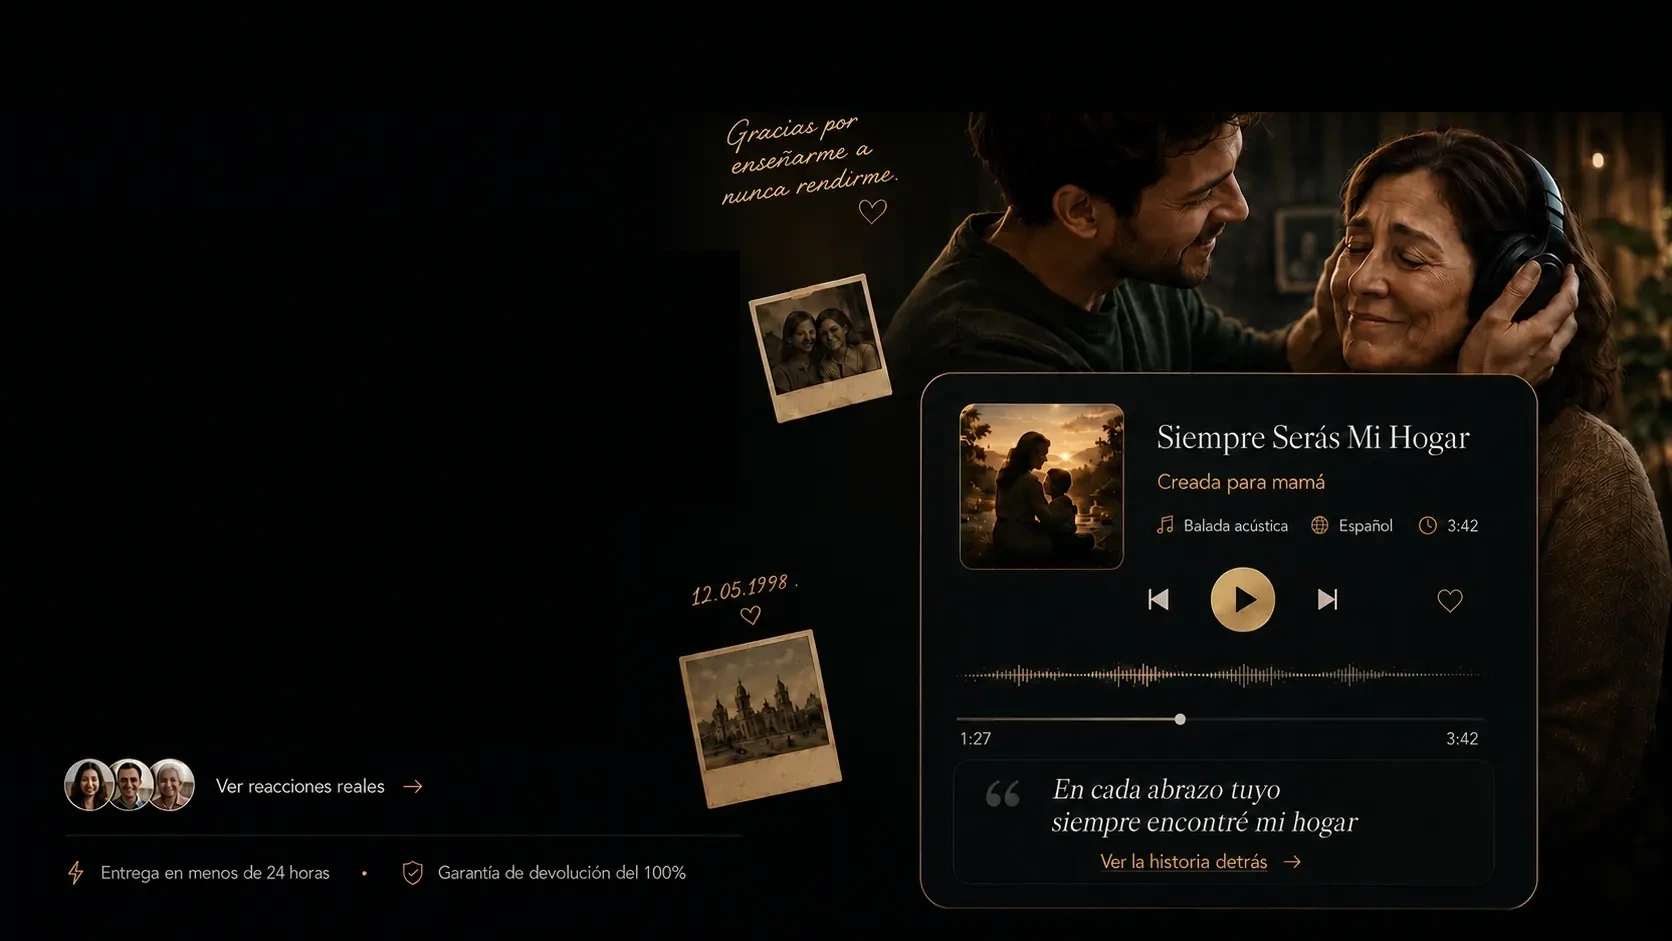
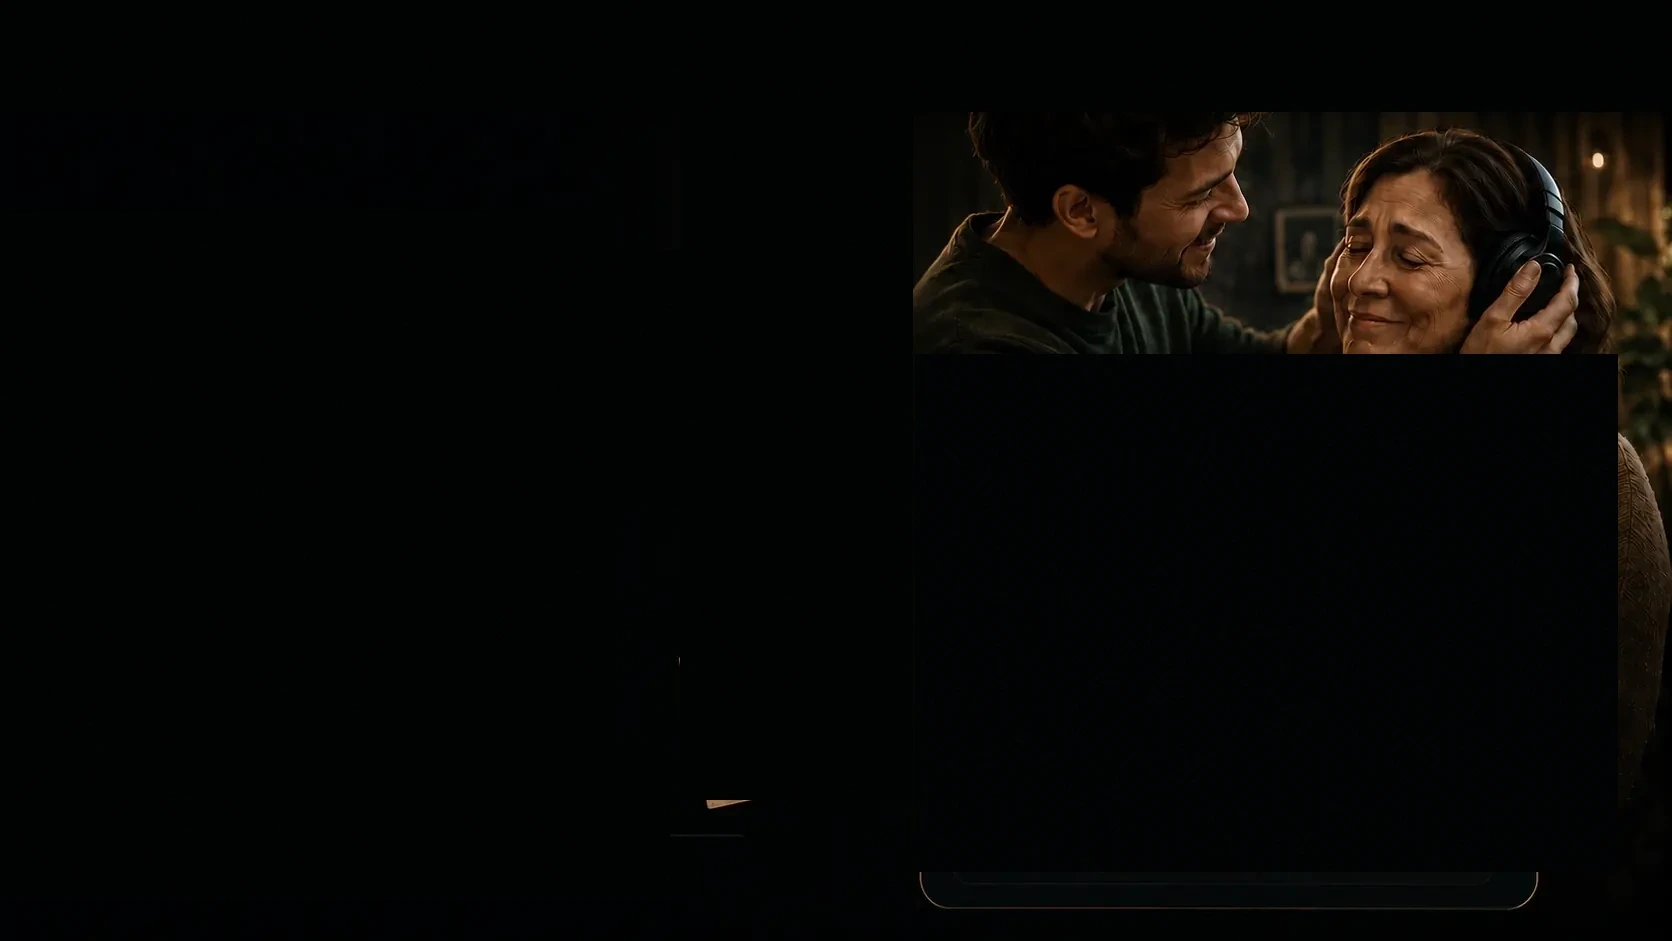
Revelar la tarjeta del reproductor completa como HTML/CSS real
- Panel, thumbnail, título, dedicatoria, metadatos (con iconos), tiempos,
  barra de progreso, waveform, controles (prev/play/next/favorito) y cita
  ahora son HTML/CSS reales en vez de píxeles horneados.
- player-thumbnail.jpg y player-waveform.png extraídos de la imagen
  original; el resto (panel, botones, íconos, barra de progreso) recreado
  con CSS/SVG reutilizando los tokens de color del sitio.
- Fix: date-copy tenía un texto "fantasma" al rotarlo vía transform en
  este navegador cuando el texto vivía como nodo de texto directo en el
  <p>; envolverlo en <span> (mismo patrón que note-copy) lo resuelve.
- Fix: polaroid-church.png estaba recortada muy justa y le faltaba la
  punta de la esquina rotada; re-extraída con los límites reales.
- Verificado contra el diseño original: visualmente indistinguible.

diff --git a/index.html b/index.html
@@ -1533,10 +1533,12 @@
     pointer-events:none;
   }
   .hero-exact .polaroid-photo.faces { left:43.84%; top:27.95%; width:14.41%; height:19.23%; }
-  .hero-exact .polaroid-photo.church { left:40.01%; top:64.08%; width:15.73%; height:20.51%; }
+  .hero-exact .polaroid-photo.church { left:40.01%; top:63.44%; width:16.33%; height:24.97%; }
 
   .hero-exact .note-copy {
     transform:rotate(-8deg);
+    will-change:transform;
+    backface-visibility:hidden;
   }
   .hero-exact .note-copy .text-line {
     color:var(--gold-bright) !important;
@@ -1544,10 +1546,14 @@
     text-shadow:none !important;
   }
   .hero-exact .date-copy {
+    transform:rotate(-5deg);
+    will-change:transform;
+    backface-visibility:hidden;
+  }
+  .hero-exact .date-copy span {
     color:var(--gold-bright) !important;
     -webkit-text-fill-color:var(--gold-bright) !important;
     text-shadow:none !important;
-    transform:rotate(-5deg);
   }
   .hero-exact .heart-deco {
     position:absolute;
@@ -1557,6 +1563,148 @@
   }
   .hero-exact .heart-deco.note-heart { left:51.26%; top:21.15%; width:1.914%; height:3.294%; transform:rotate(-8deg); }
   .hero-exact .heart-deco.date-heart { left:44.32%; top:64.72%; width:1.017%; height:1.700%; transform:rotate(-5deg); }
+
+  /* ---- Player card ---- */
+  .hero-exact .player-card-panel {
+    position:absolute;
+    z-index:2;
+    left:54.90%;
+    top:37.83%;
+    width:41.87%;
+    height:54.84%;
+    background:rgba(9,9,10,.62);
+    border:1px solid var(--line-soft);
+    border-radius:1.4cqw;
+    pointer-events:none;
+  }
+  .hero-exact .player-thumbnail {
+    position:absolute;
+    z-index:3;
+    left:55.14%;
+    top:38.79%;
+    width:11.96%;
+    height:14.56%;
+    border-radius:.8cqw;
+    object-fit:cover;
+    display:block;
+    pointer-events:none;
+  }
+  .hero-exact .song-title-copy {
+    color:var(--cream) !important;
+    -webkit-text-fill-color:var(--cream) !important;
+    text-shadow:none !important;
+  }
+  .hero-exact .song-dedication-copy {
+    color:var(--gold-bright) !important;
+    -webkit-text-fill-color:var(--gold-bright) !important;
+    text-shadow:none !important;
+  }
+  .hero-exact .song-meta-copy {
+    display:flex !important;
+    align-items:center;
+    gap:.5cqw;
+    color:var(--cream) !important;
+    -webkit-text-fill-color:var(--cream) !important;
+    text-shadow:none !important;
+    opacity:.85;
+  }
+  .hero-exact .song-meta-copy svg {
+    flex:none;
+    width:.95cqw;
+    height:.95cqw;
+    color:var(--gold) !important;
+    -webkit-text-fill-color:var(--gold) !important;
+  }
+  .hero-exact .song-meta-copy span {
+    color:var(--cream) !important;
+    -webkit-text-fill-color:var(--cream) !important;
+    text-shadow:none !important;
+  }
+  .hero-exact .song-meta-copy .meta-sep { opacity:.6; }
+  .hero-exact .quote-mark {
+    color:var(--gold) !important;
+    -webkit-text-fill-color:var(--gold) !important;
+  }
+  .hero-exact .song-time-left,
+  .hero-exact .song-time-right {
+    color:var(--cream) !important;
+    -webkit-text-fill-color:var(--cream) !important;
+    text-shadow:none !important;
+    opacity:.75;
+  }
+  .hero-exact .song-quote-copy .text-line {
+    color:var(--cream) !important;
+    -webkit-text-fill-color:var(--cream) !important;
+    text-shadow:none !important;
+  }
+  .hero-exact .quote-mark {
+    position:absolute;
+    z-index:3;
+    left:56.82%;
+    top:80.5%;
+    width:1.6%;
+    height:3.6%;
+    color:var(--gold);
+    opacity:.8;
+    pointer-events:none;
+  }
+  .hero-exact .story-hit {
+    color:var(--gold);
+    font-family:'Inter',sans-serif;
+    justify-content:flex-start;
+  }
+
+  .hero-exact .progress-track {
+    position:absolute;
+    z-index:2;
+    left:54.60%;
+    top:76.0%;
+    width:42.22%;
+    height:2px;
+    background:var(--line-soft);
+    pointer-events:none;
+  }
+  .hero-exact .progress-track .filled {
+    position:absolute;
+    left:0; top:0; bottom:0;
+    width:37.8%;
+    background:var(--gold);
+  }
+  .hero-exact .progress-dot {
+    position:absolute;
+    z-index:3;
+    left:70.57%;
+    top:76.51%;
+    width:.9%;
+    height:1.6%;
+    border-radius:50%;
+    background:var(--cream);
+    transform:translate(-50%,-50%);
+    pointer-events:none;
+  }
+  .hero-exact .player-waveform {
+    position:absolute;
+    z-index:2;
+    left:54.78%;
+    top:69.61%;
+    width:42.05%;
+    height:4.68%;
+    display:block;
+    pointer-events:none;
+    opacity:.9;
+  }
+
+  .hero-exact .prev-hit,
+  .hero-exact .next-hit,
+  .hero-exact .favorite-hit { color:var(--cream); }
+  .hero-exact .prev-hit svg,
+  .hero-exact .next-hit svg,
+  .hero-exact .favorite-hit svg { width:1.5cqw; height:1.5cqw; }
+  .hero-exact .play-hit {
+    background:var(--gold) !important;
+    color:var(--black);
+  }
+  .hero-exact .play-hit svg { width:1.7cqw; height:1.7cqw; margin-left:.15cqw; }
 
   .hero-stage.favorite-selected .hero-canvas::after {
     content:'♥';
@@ -1631,26 +1779,42 @@
     <svg class="heart-deco note-heart" viewBox="0 0 24 24" fill="none" stroke="currentColor" stroke-width="1.5"><path d="M12 21s-6.7-4.35-9.33-8.2C.87 10.2 1.4 6.6 4.3 5.1 6.6 3.9 9.2 4.6 12 7.6c2.8-3 5.4-3.7 7.7-2.5 2.9 1.5 3.43 5.1 1.63 7.7C18.7 16.65 12 21 12 21Z"/></svg>
     <img class="polaroid-photo faces" src="assets/polaroid-faces.png" alt="Foto polaroid">
 
-    <p class="hero-selectable date-copy">12.05.1998</p>
+    <p class="hero-selectable date-copy"><span>12.05.1998</span></p>
     <svg class="heart-deco date-heart" viewBox="0 0 24 24" fill="none" stroke="currentColor" stroke-width="1.5"><path d="M12 21s-6.7-4.35-9.33-8.2C.87 10.2 1.4 6.6 4.3 5.1 6.6 3.9 9.2 4.6 12 7.6c2.8-3 5.4-3.7 7.7-2.5 2.9 1.5 3.43 5.1 1.63 7.7C18.7 16.65 12 21 12 21Z"/></svg>
     <img class="polaroid-photo church" src="assets/polaroid-church.png" alt="Foto polaroid">
 
+    <div class="player-card-panel"></div>
+    <img class="player-thumbnail" src="assets/player-thumbnail.jpg" alt="Portada de la canción">
+
     <p class="hero-selectable song-title-copy">Siempre Serás Mi Hogar</p>
     <p class="hero-selectable song-dedication-copy">Creada para mamá</p>
-    <p class="hero-selectable song-meta-copy">Balada acústica · Español · 3:42</p>
+    <p class="hero-selectable song-meta-copy">
+      <svg viewBox="0 0 24 24" fill="currentColor" aria-hidden="true"><path d="M9 18V5l12-2v13"/><circle cx="6" cy="18" r="3"/><circle cx="18" cy="16" r="3"/></svg>
+      <span>Balada acústica</span>
+      <span class="meta-sep">·</span>
+      <svg viewBox="0 0 24 24" fill="none" stroke="currentColor" stroke-width="1.6" aria-hidden="true"><circle cx="12" cy="12" r="9"/><path d="M3 12h18M12 3c2.5 2.5 3.5 6 3.5 9s-1 6.5-3.5 9c-2.5-2.5-3.5-6-3.5-9s1-6.5 3.5-9Z"/></svg>
+      <span>Español</span>
+      <span class="meta-sep">·</span>
+      <svg viewBox="0 0 24 24" fill="none" stroke="currentColor" stroke-width="1.6" aria-hidden="true"><circle cx="12" cy="12" r="9"/><path d="M12 7v5l3 3" stroke-linecap="round" stroke-linejoin="round"/></svg>
+      <span>3:42</span>
+    </p>
     <p class="hero-selectable song-time-left">1:27</p>
     <p class="hero-selectable song-time-right">3:42</p>
+    <div class="progress-track"><div class="filled"></div></div>
+    <div class="progress-dot"></div>
+    <img class="player-waveform" src="assets/player-waveform.png" alt="">
 
+    <svg class="quote-mark" viewBox="0 0 24 24" fill="currentColor" aria-hidden="true"><path d="M9 7c-2.8 0-5 2.2-5 5v5h5v-5H6.5C6.5 10 7.6 8.8 9 8.5V7Zm10 0c-2.8 0-5 2.2-5 5v5h5v-5h-2.5c0-2 1.1-3.2 2.5-3.5V7Z"/></svg>
     <p class="hero-selectable song-quote-copy">
       <span class="text-line">En cada abrazo tuyo</span>
       <span class="text-line">siempre encontré mi hogar</span>
     </p>
 
-    <button type="button" class="hero-hotspot prev-hit" data-hero-message="Habrá más canciones disponibles próximamente." aria-label="Canción anterior">Canción anterior</button>
-    <button type="button" class="hero-hotspot play-hit" data-open-hero-song aria-pressed="false" aria-label="Reproducir Siempre Serás Mi Hogar">Reproducir</button>
-    <button type="button" class="hero-hotspot next-hit" data-hero-message="Habrá más canciones disponibles próximamente." aria-label="Siguiente canción">Siguiente canción</button>
-    <button type="button" class="hero-hotspot favorite-hit" id="heroFavorite" aria-pressed="false" aria-label="Agregar a favoritos">Agregar a favoritos</button>
-    <a class="hero-hotspot story-hit" href="#how-it-works">Ver la historia detrás</a>
+    <button type="button" class="hero-hotspot prev-hit" data-hero-message="Habrá más canciones disponibles próximamente." aria-label="Canción anterior"><svg viewBox="0 0 24 24" fill="currentColor"><path d="M6 5h2v14H6zM20 5v14l-11-7z"/></svg></button>
+    <button type="button" class="hero-hotspot play-hit" data-open-hero-song aria-pressed="false" aria-label="Reproducir Siempre Serás Mi Hogar"><svg viewBox="0 0 24 24" fill="currentColor"><path d="M7 4v16l14-8z"/></svg></button>
+    <button type="button" class="hero-hotspot next-hit" data-hero-message="Habrá más canciones disponibles próximamente." aria-label="Siguiente canción"><svg viewBox="0 0 24 24" fill="currentColor"><path d="M16 5h2v14h-2zM4 5v14l11-7z"/></svg></button>
+    <button type="button" class="hero-hotspot favorite-hit" id="heroFavorite" aria-pressed="false" aria-label="Agregar a favoritos"><svg viewBox="0 0 24 24" fill="none" stroke="currentColor" stroke-width="1.6"><path d="M12 21s-6.7-4.35-9.33-8.2C.87 10.2 1.4 6.6 4.3 5.1 6.6 3.9 9.2 4.6 12 7.6c2.8-3 5.4-3.7 7.7-2.5 2.9 1.5 3.43 5.1 1.63 7.7C18.7 16.65 12 21 12 21Z"/></svg></button>
+    <a class="hero-hotspot story-hit" href="#how-it-works">Ver la historia detrás →</a>
 
     <iframe id="heroAudioFrame" class="hero-audio-frame" title="Audio de Siempre Serás Mi Hogar" aria-hidden="true" allow="autoplay; encrypted-media"></iframe>
   </div>
